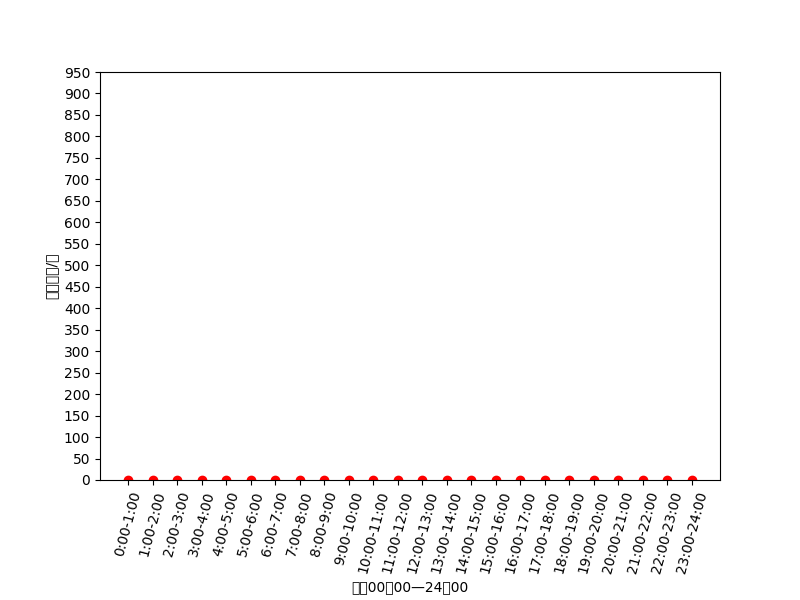
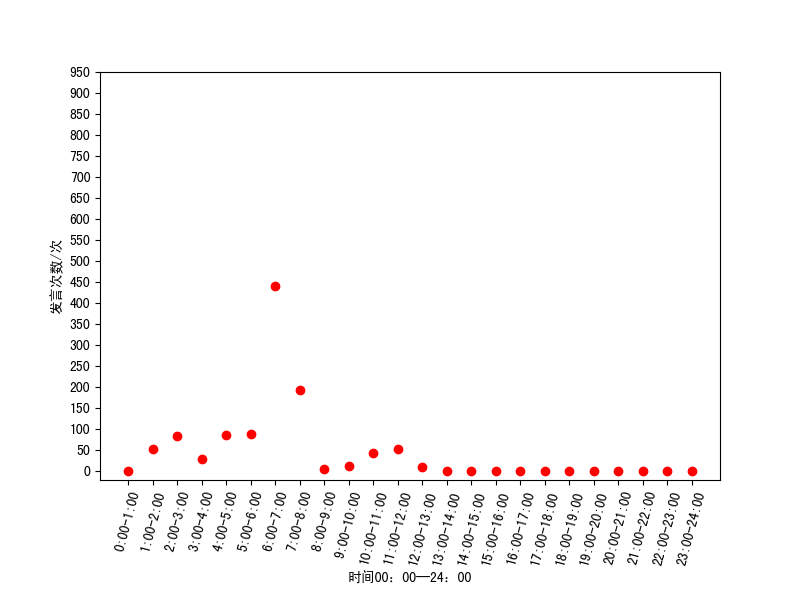
Time Graph fixed

diff --git a/test.py b/test.py
@@ -1,10 +1,5 @@
 #!/usr/bin/env python3
 # -*- coding: utf-8 -*-
-"""
-Created on Mon Mar  1 16:32:04 2021
-
-@author: huangchengmin
-"""
 
 import re
 import numpy as np
@@ -19,6 +14,9 @@ pattern2=re.compile(r'(\d+):(\d+):\d+')#匹配 15:55:40
 #pattern3=re.compile(r'(\()(.*?)(\))')#匹配    2班某某(1315426911)相关内容
 f = open('chatlog.txt', 'r', encoding='utf-8')  # 要进行分词处理的文本文件 (统统按照utf8文件去处理，省得麻烦)
 lines = f.readlines()
+f2 = open('file.txt', 'r', encoding='utf-8')
+flines = f2.readlines()
+
 index=0
 def getpicture(y):#matplotlib绘图
     x=[]
@@ -82,6 +80,33 @@ def analysebyhour(lines):
     for i in range(0,24):
         print('time:',i,'time',value[i]['time'])
         y.append(value[i]['time'])
-    getpicture(y)
     getciyun(value)
+
+def analysebyhour2(lines):
+    value=[]
+    y=[]
+    index=0
+    for i in range(0,24):
+        value.append({})
+        value[i]['time']=0
+        value[i]['text']=''
+    for line in lines:
+        if line != "\n" and line.strip() != "\n" and line != None and not line.__contains__("撤回了"):
+           line = line.replace("[表情]", " ").replace("@全体成员", " ").replace("[表情]", " ").\
+                replace("[QQ红包]我发了一个“专享红包”，请使用新版手机QQ查收红。", "").replace("\n", " ").replace("[图片]",'')
+           if(pattern.search(line)):#匹配到正确的对象
+                date=pattern.search(line)
+                hour=pattern2.search(line).group(1)
+                #print(date.group(0),hour)
+                value[int(hour)]['time']+=1
+                index=hour
+           else:
+               print(line)
+               value[int(index)]['text']+=str(line)
+    for i in range(0,24):
+        print('time:',i,'time',value[i]['time'])
+        y.append(value[i]['time'])
+    getpicture(y)
+
 analysebyhour(lines)
+analysebyhour2(flines)
